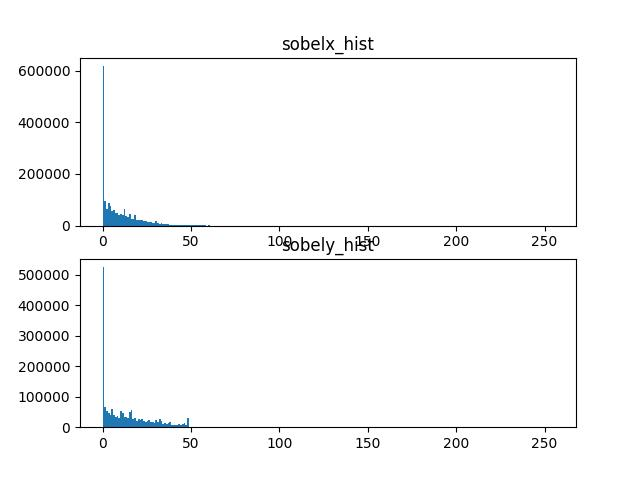
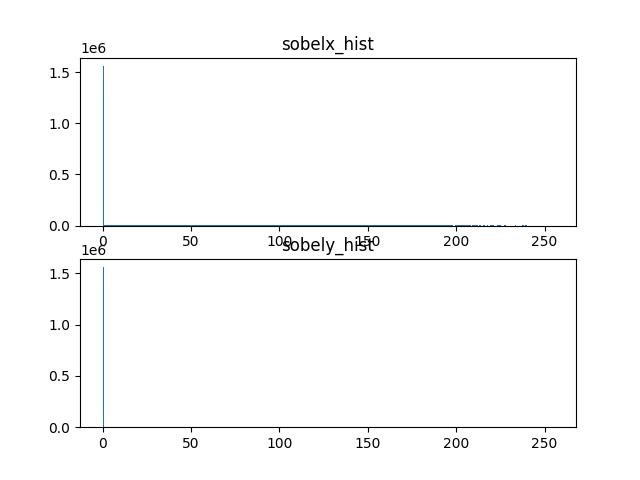
sphere

diff --git a/albedo.py b/albedo.py
@@ -23,7 +23,7 @@ def hist(img):
     plt.subplot(2, 2, 4)
     plt.hist(img[:, :, 2].ravel(), 256, [0, 255], color='red')  # img.ravel将多维数组变成一维数组
     plt.title('red')
-    plt.savefig(r'./result/albedo/albedo_hist.jpg')
+    plt.savefig(r'./result/albedo/new/cut/albedo_hist.jpg')
 
 
 def grad(img):
@@ -31,8 +31,8 @@ def grad(img):
     sobelx = cv.Sobel(img, cv.CV_64F, 1, 0, ksize=5)
     sobely = cv.Sobel(img, cv.CV_64F, 0, 1, ksize=5)
 
-    cv.imwrite('./result/albedo/sobel_x.jpg', sobelx)
-    cv.imwrite('./result/albedo/sobel_y.jpg', sobely)
+    cv.imwrite('./result/albedo/new/cut/sobel_x.jpg', sobelx)
+    cv.imwrite('./result/albedo/new/cut/sobel_y.jpg', sobely)
 
     plt.figure()
     plt.subplot(211)
@@ -42,13 +42,15 @@ def grad(img):
     plt.hist(sobely.ravel(), 256, [0, 255])
     plt.title('sobely_hist')
 
-    plt.savefig(r'./result/albedo/sobel_hist.jpg')
+    plt.savefig(r'./result/albedo/new/cut/sobel_hist.jpg')
     return sobelx, sobely
 
 if __name__ == '__main__' :
-    img = cv.imread('./RGBD_single/0_000000.jpg', cv.IMREAD_COLOR)
-    gray = cv.cvtColor(img, cv.COLOR_BGR2GRAY)
-    cv.imwrite('./result/albedo/gray.jpg', gray)
+    img = cv.imread('./processed/cut/Ic.jpg', cv.IMREAD_COLOR)
+    gray = cv.imread('./processed/cut/B.png', cv.IMREAD_GRAYSCALE)
+    cv.imwrite('./result/albedo/new/cut/gray.jpg', gray)
+    print(img.shape)
+    print(gray.shape)
 
     length = gray.shape[0]
     width = gray.shape[1]
@@ -64,21 +66,21 @@ if __name__ == '__main__' :
     for i in range(3):
         albedo[:, :, i] = img[:, :, i] / gray * 150  # 150是实验得到的参数
 
-    cv.imwrite('./result/albedo/albedo.jpg', albedo)
+    cv.imwrite('./result/albedo/new/cut/albedo.jpg', albedo)
     # albedo三个通道的直方图
     hist(albedo)
 
     albedo = albedo.astype(np.uint8)
     albedo_gray = cv.cvtColor(albedo, cv.COLOR_BGR2GRAY)
-    cv.imwrite('./result/albedo/albedo_gray.jpg', albedo_gray)
+    cv.imwrite('./result/albedo/new/cut/albedo_gray.jpg', albedo_gray)
 
     # 求xy两个方向的梯度
     sobelx, sobely = grad(albedo_gray)
 
     # 设定特定的阈值进行二值化（50为参数）
-    ret, binary_x = cv.threshold(sobelx, 50, 255, cv.THRESH_BINARY_INV)
-    cv.imwrite('./result/albedo/binary_x.jpg', binary_x)
+    ret, binary_x = cv.threshold(sobelx, 0, 255, cv.THRESH_BINARY_INV)
+    cv.imwrite('./result/albedo/new/cut/binary_x.jpg', binary_x)
 
     # 设定特定的阈值
-    ret, binary_y = cv.threshold(sobely, 50, 255, cv.THRESH_BINARY_INV)
-    cv.imwrite('./result/albedo/binary_y.jpg', binary_y)
+    ret, binary_y = cv.threshold(sobely, 0, 255, cv.THRESH_BINARY_INV)
+    cv.imwrite('./result/albedo/new/cut/binary_y.jpg', binary_y)

diff --git a/sphere.py b/sphere.py
@@ -1,0 +1,55 @@
+from mpl_toolkits.mplot3d import axes3d
+import matplotlib.pyplot as plt
+import numpy as np
+import Harmonic
+
+lk = [20,
+2.190649,
+11.876344,
+55.593817,
+19.686860,
+12.088145,
+3.791434,
+53.197345,
+-2.502517]
+
+def rgb_to_hex(r, g, b):
+    return ('{:02X}' * 3).format(r, g, b)
+
+def show_sphere(lk):
+    fig = plt.figure()
+    ax = fig.add_subplot(111, projection='3d')
+    size = 100
+    phi = np.linspace(0, np.pi * 2, size)
+    theta = np.linspace(0, np.pi, size)
+
+
+    x = np.zeros(size * size)
+    y = np.zeros(size * size)
+    z = np.zeros(size * size)
+    color = np.zeros(size * size, np.uint8)
+    colorer = []
+
+    for i in range(size):
+        for j in range(size):
+            n = size * i + j
+            x[n] = np.cos(phi[i]) * np.sin(theta[j])
+            y[n] = np.sin(phi[i]) * np.sin(theta[j])
+            z[n] = np.cos(theta[j])
+            color[n] = Harmonic.Render(theta[j], phi[i], lk)
+            colorer.append('#' + str(rgb_to_hex(color[n],color[n],color[n])))
+
+
+    ax = plt.axes(projection='3d')
+    ax.set_xlabel('x axis')
+    ax.set_ylabel('y axis')
+    ax.set_zlabel('z axis')
+
+
+    ax.scatter3D(x, y, z, c=colorer)
+
+    plt.show()
+
+if __name__ == '__main__':
+    show_sphere(lk)
+

diff --git a/light_pic.py b/light_pic.py
@@ -6,15 +6,15 @@ from PIL import Image
 import matplotlib.pyplot as plt
 
 #球谐函数系数
-lk = [94.678201,
--3.423619,
-13.471551,
-25.164422,
--0.318307,
--8.479666,
-4.288890,
-24.088781,
--9.017026]
+lk = [79.059310,
+2.190649,
+11.876344,
+-55.593817,
+-19.686860,
+-12.088145,
+-3.791434,
+-53.197345,
+2.502517]
 
 def cubemap(lk):
     SIZE = 1024
@@ -65,11 +65,11 @@ def cubemap(lk):
 
         # Save output image using prefix, type and index info.
         pimg = Image.fromarray(color)
-        pimg.save(os.path.join('./result/light', "%s%d.%s" % ('side_', i, 'jpg')), quality=85)
+        pimg.save(os.path.join('./result/light', "%s%d.%s" % ('1202bside_', i, 'jpg')), quality=85)
         plt.figure()
         plt.hist(np.array(pimg).ravel(), 256, [0, 255])
 
-        plt.savefig(os.path.join('./result/light', "%s%d.%s" % ('hist_side_', i, 'jpg')))
+        plt.savefig(os.path.join('./result/light', "%s%d.%s" % ('1202bhist_side_', i, 'jpg')))
 
 if __name__ == "__main__":
     cubemap(lk)

diff --git a/Harmonic.py b/Harmonic.py
@@ -68,5 +68,7 @@ def Render(theta, phi, lk):
     color = 0
     for i in range(n):
         color = color + Y[i] * lk[i]
+        if color > 100:
+            print("error")
     return color
 
